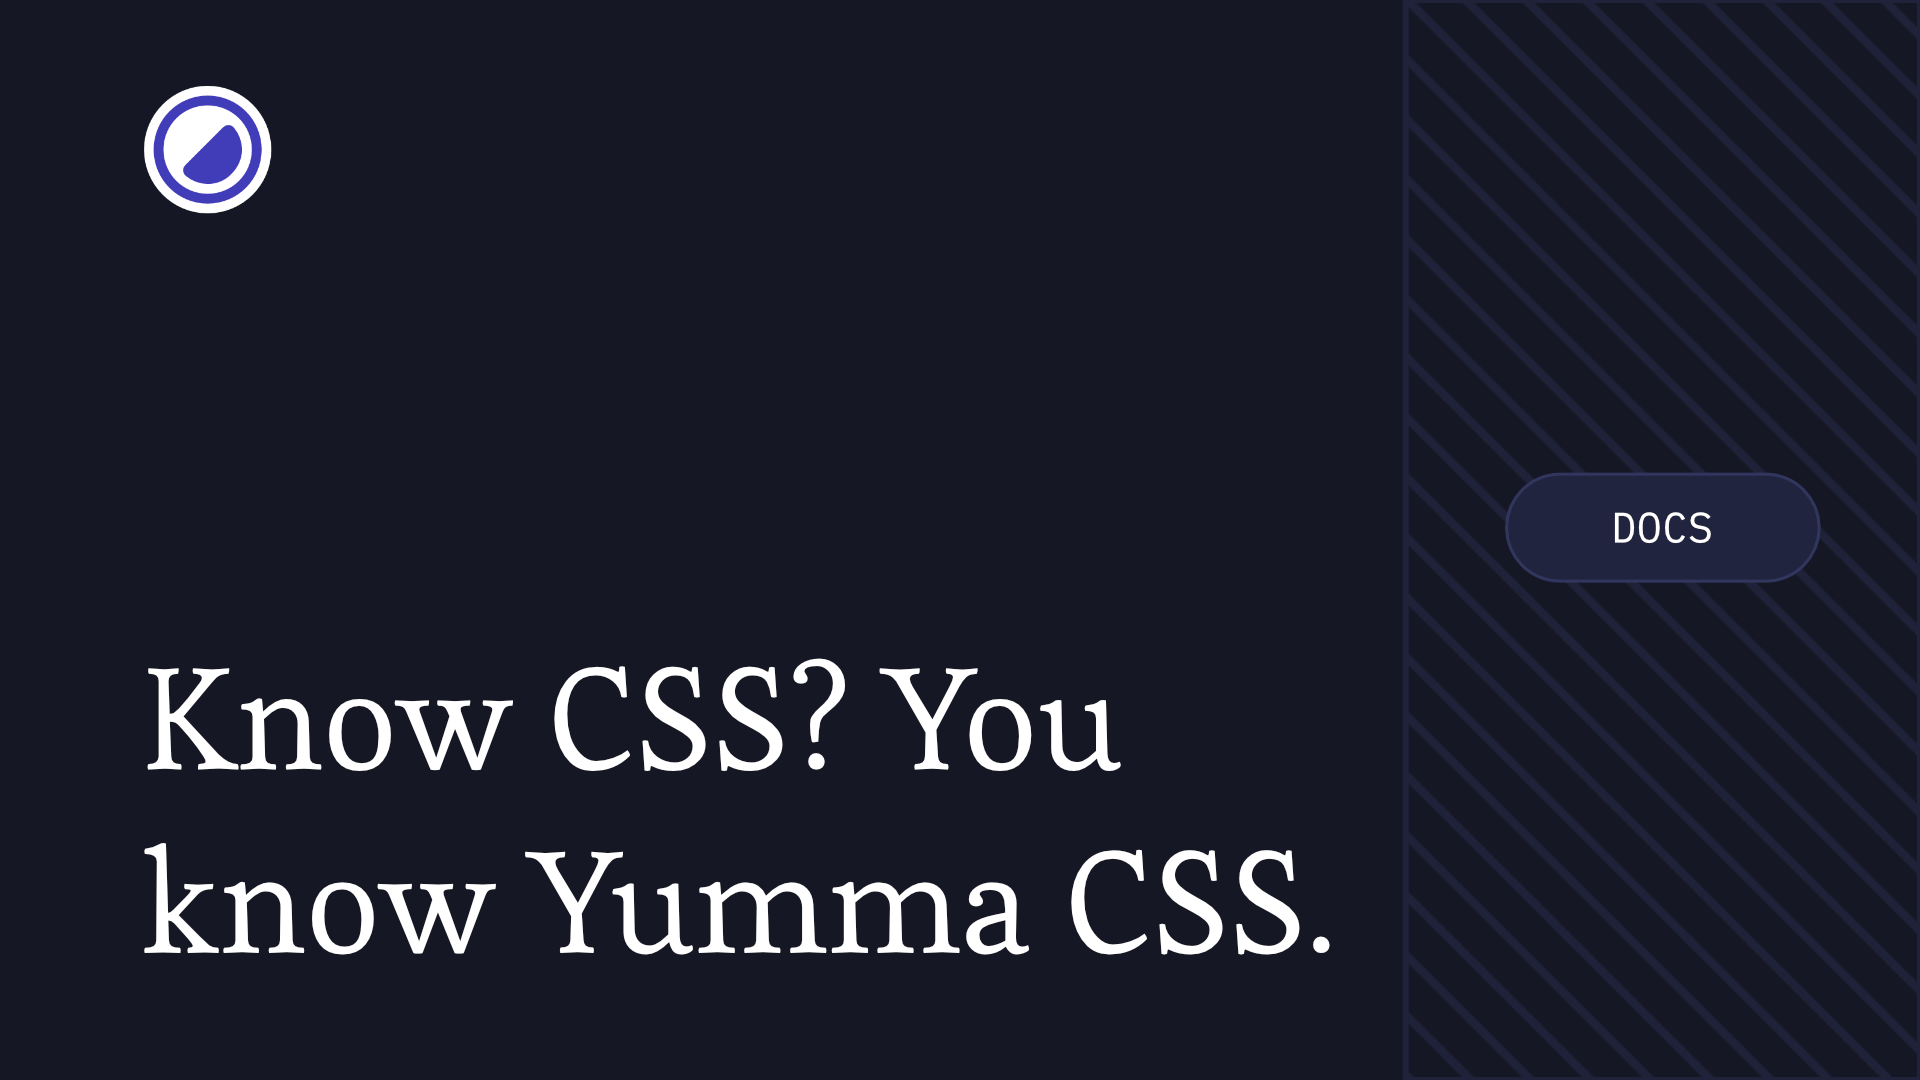
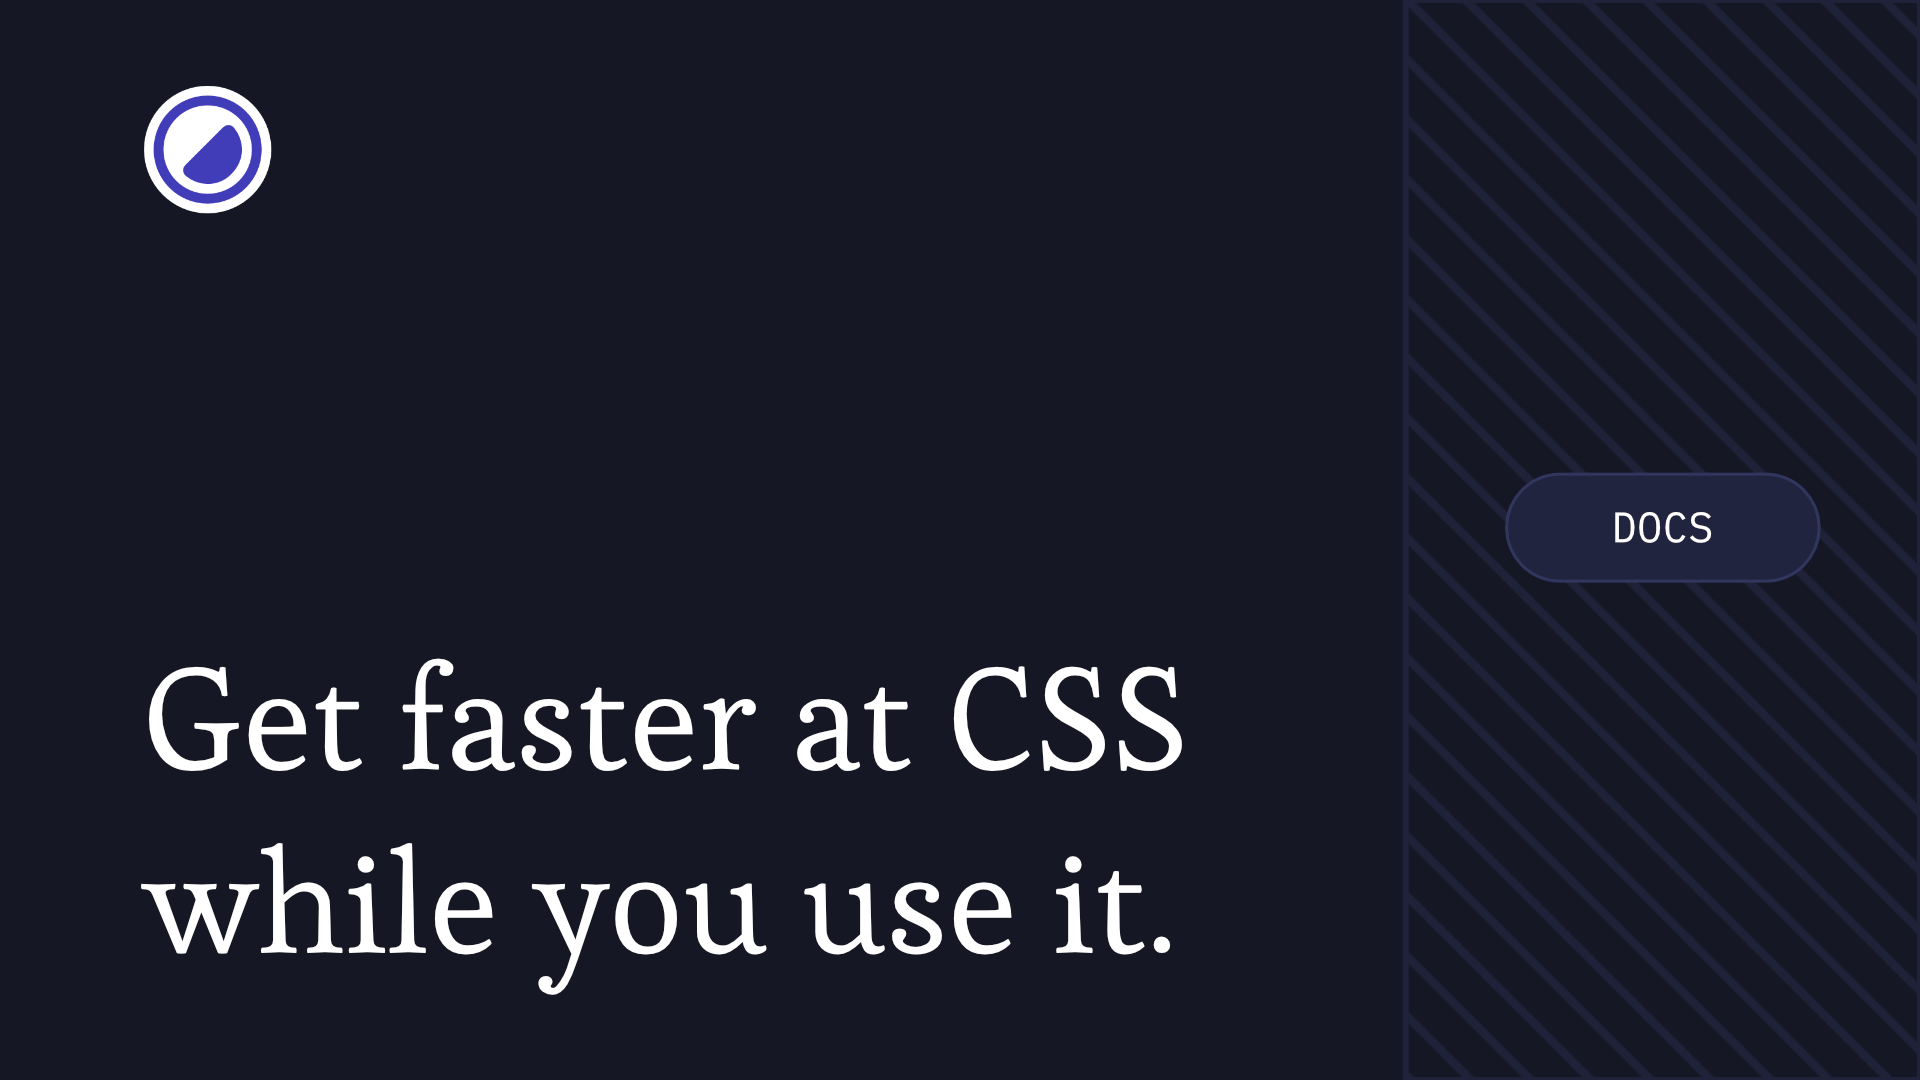
update og.png, landing heading and its lore

Changed region(s): [[0.0625, 0.6111, 0.625, 0.7333], [0.0625, 0.7639, 0.6875, 0.9167]]

diff --git a/src/app/page.tsx b/src/app/page.tsx
@@ -54,19 +54,12 @@ export default function Home() {
               </Link>
 
               <h1 className="mb-6 fs-4xl fw-400 lh-2 ff-e @md:fs-5xl @lg:fs-6xl">
-                One class. One CSS property.
+                Get faster at CSS while you use it.
               </h1>
               <p className="mb-8 c-white/70 fs-md lh-5 @md:fs-lg">
-                Initials of the property, initials of the value, drawn from a
-                fixed scale. There is a table to learn, and what you learn is
-                CSS.
+                Fixed scales for spacing, colors, type and radius. No arbitrary values to drift.
               </p>
 
-              {/*
-               * Two buttons, not three: at this column width a third wraps and
-               * orphans itself onto its own line. Docs and Components both
-               * stay in the navbar, where they already are.
-               */}
               <div className="d-f fw-w g-4 mb-12">
                 <Link
                   href="/docs/installation"
